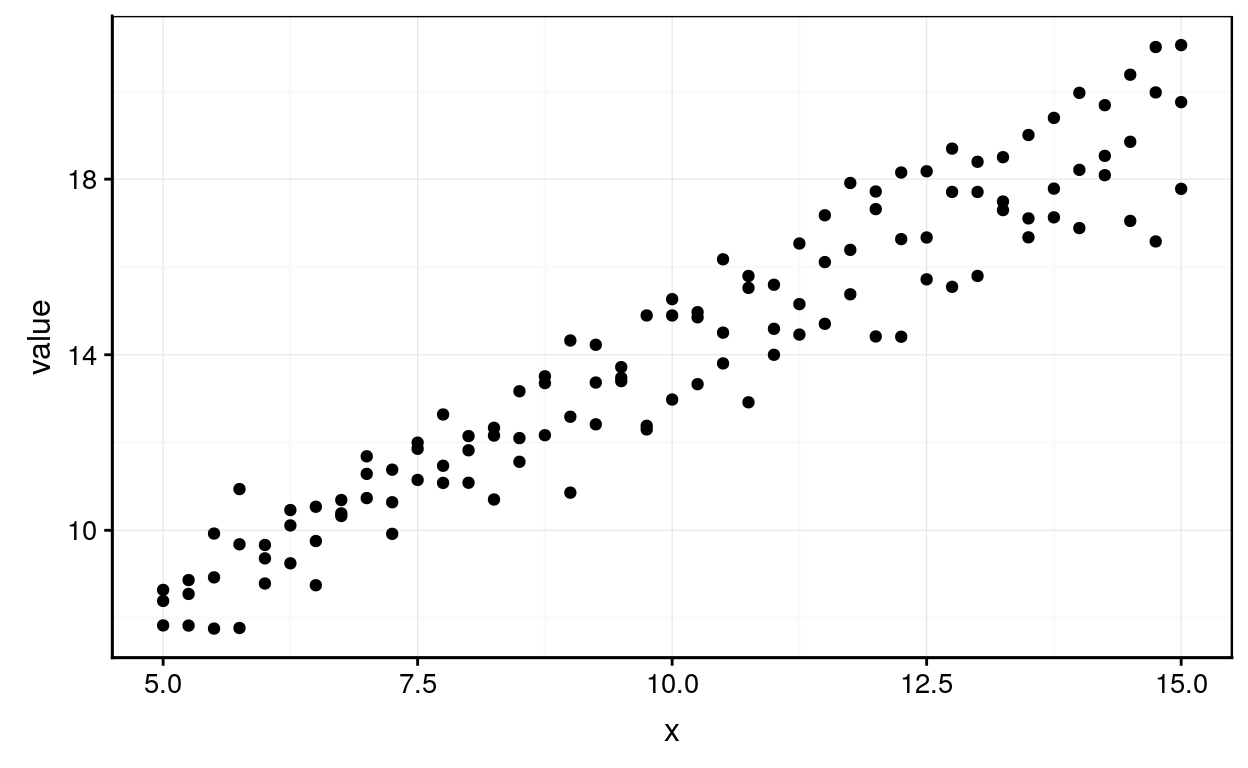
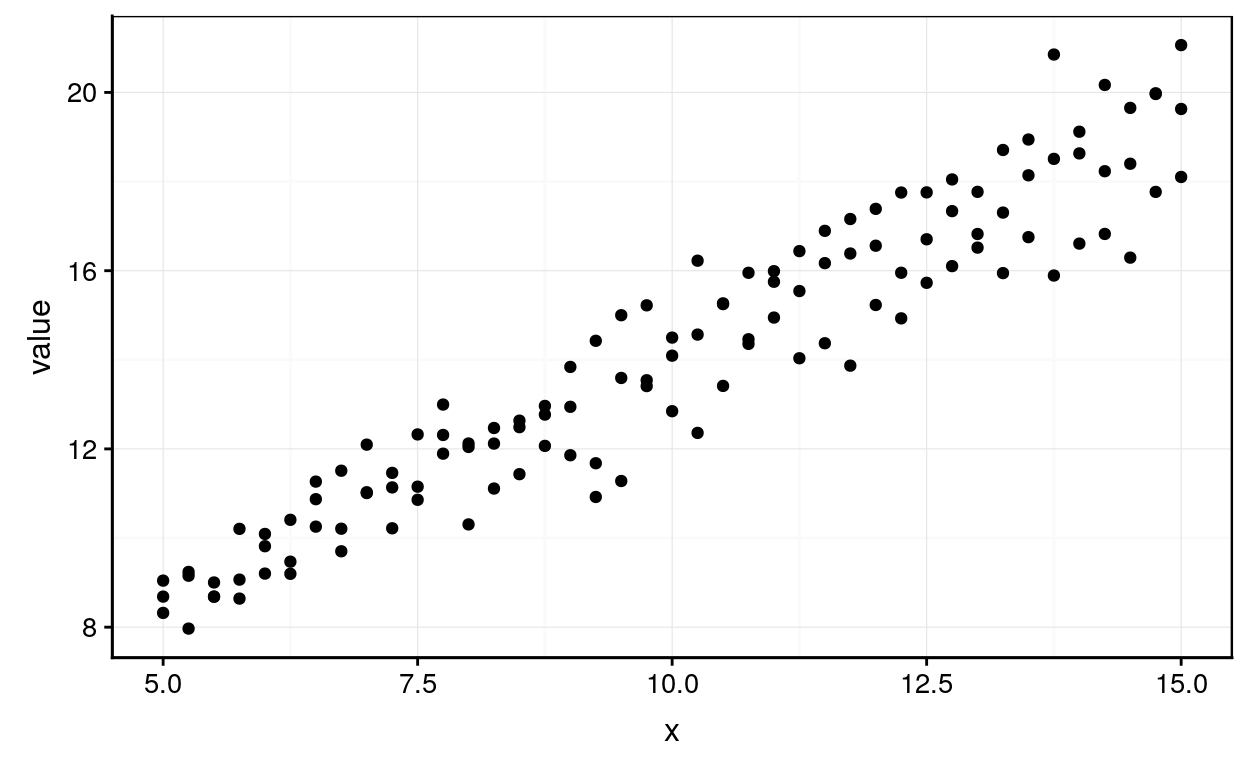
01a_reg_lin correction mineure

diff --git a/inst/tutorials/01a_reg_lin/reg_lin_simp.html b/inst/tutorials/01a_reg_lin/reg_lin_simp.html
@@ -100,14 +100,14 @@ correlation(DF[, INDEX_EXPRESSION], use = &quot;complete.obs&quot;, method = &qu
 </div>
 <p>Répondez à la question ci-dessous</p>
 
-<div id="htmlwidget-6aa6fc76439b429914f3" style="width:100%;height:auto;", class = "quiz html-widget">
+<div id="htmlwidget-3df863f24ac0b9c240ae" style="width:100%;height:auto;", class = "quiz html-widget">
 <div class="panel panel-default">
 <div class="panel-body quizArea">
 </div>
 </div>
 </div>
 
-<script type="application/json" data-for="htmlwidget-6aa6fc76439b429914f3">{"x":{"question":"Quelles sont les combinaisons de variables les plus corrélées ?","answers":[{"option":"x-y","correct":true,"message":null},{"option":"x-z","correct":false,"message":null},{"option":"x-a","correct":false,"message":null},{"option":"y-z","correct":false,"message":null},{"option":"y-a","correct":false,"message":null},{"option":"z-a","correct":false,"message":null}],"label":"qu_corr1","skipStartButton":true,"perQuestionResponseAnswers":true,"perQuestionResponseMessaging":true,"preventUnanswered":true,"displayQuestionCount":false,"displayQuestionNumber":false,"disableRanking":true,"nextQuestionText":"","checkAnswerText":"Submit Answer","allowRetry":true,"randomSortAnswers":true,"json":{"info":{"name":"","main":""},"questions":[{"q":"Quelles sont les combinaisons de variables les plus corrélées ?","a":[{"option":"x-y","correct":true,"message":null},{"option":"x-z","correct":false,"message":null},{"option":"x-a","correct":false,"message":null},{"option":"y-z","correct":false,"message":null},{"option":"y-a","correct":false,"message":null},{"option":"z-a","correct":false,"message":null}],"correct":"Correct!","incorrect":"Incorrect."}]}},"evals":[],"jsHooks":[]}</script>
+<script type="application/json" data-for="htmlwidget-3df863f24ac0b9c240ae">{"x":{"question":"Quelles sont les combinaisons de variables les plus corrélées ?","answers":[{"option":"x-y","correct":true,"message":null},{"option":"x-z","correct":false,"message":null},{"option":"x-a","correct":false,"message":null},{"option":"y-z","correct":false,"message":null},{"option":"y-a","correct":false,"message":null},{"option":"z-a","correct":false,"message":null}],"label":"qu_corr1","skipStartButton":true,"perQuestionResponseAnswers":true,"perQuestionResponseMessaging":true,"preventUnanswered":true,"displayQuestionCount":false,"displayQuestionNumber":false,"disableRanking":true,"nextQuestionText":"","checkAnswerText":"Submit Answer","allowRetry":true,"randomSortAnswers":true,"json":{"info":{"name":"","main":""},"questions":[{"q":"Quelles sont les combinaisons de variables les plus corrélées ?","a":[{"option":"x-y","correct":true,"message":null},{"option":"x-z","correct":false,"message":null},{"option":"x-a","correct":false,"message":null},{"option":"y-z","correct":false,"message":null},{"option":"y-a","correct":false,"message":null},{"option":"z-a","correct":false,"message":null}],"correct":"Correct!","incorrect":"Incorrect."}]}},"evals":[],"jsHooks":[]}</script>
 <ul>
 <li>Réalisez une matrice de correlation avec la méthode de Spearman</li>
 </ul>
@@ -129,14 +129,14 @@ correlation(DF[, INDEX_EXPRESSION], use = &quot;complete.obs&quot;, method = &qu
 </div>
 <p>Répondez à la question ci-dessous</p>
 
-<div id="htmlwidget-7bbd18e1158c9117cc46" style="width:100%;height:auto;", class = "quiz html-widget">
+<div id="htmlwidget-6d1817a09071ea6916d6" style="width:100%;height:auto;", class = "quiz html-widget">
 <div class="panel panel-default">
 <div class="panel-body quizArea">
 </div>
 </div>
 </div>
 
-<script type="application/json" data-for="htmlwidget-7bbd18e1158c9117cc46">{"x":{"question":"Quelles sont les combinaisons de variables les moins corrélées ?","answers":[{"option":"x-y","correct":false,"message":null},{"option":"x-z","correct":false,"message":null},{"option":"x-a","correct":false,"message":null},{"option":"y-z","correct":false,"message":null},{"option":"y-a","correct":false,"message":null},{"option":"z-a","correct":true,"message":null}],"label":"qu_corr2","skipStartButton":true,"perQuestionResponseAnswers":true,"perQuestionResponseMessaging":true,"preventUnanswered":true,"displayQuestionCount":false,"displayQuestionNumber":false,"disableRanking":true,"nextQuestionText":"","checkAnswerText":"Submit Answer","allowRetry":true,"randomSortAnswers":true,"json":{"info":{"name":"","main":""},"questions":[{"q":"Quelles sont les combinaisons de variables les moins corrélées ?","a":[{"option":"x-y","correct":false,"message":null},{"option":"x-z","correct":false,"message":null},{"option":"x-a","correct":false,"message":null},{"option":"y-z","correct":false,"message":null},{"option":"y-a","correct":false,"message":null},{"option":"z-a","correct":true,"message":null}],"correct":"Correct!","incorrect":"Incorrect."}]}},"evals":[],"jsHooks":[]}</script>
+<script type="application/json" data-for="htmlwidget-6d1817a09071ea6916d6">{"x":{"question":"Quelles sont les combinaisons de variables les moins corrélées ?","answers":[{"option":"x-y","correct":false,"message":null},{"option":"x-z","correct":false,"message":null},{"option":"x-a","correct":false,"message":null},{"option":"y-z","correct":false,"message":null},{"option":"y-a","correct":false,"message":null},{"option":"z-a","correct":true,"message":null}],"label":"qu_corr2","skipStartButton":true,"perQuestionResponseAnswers":true,"perQuestionResponseMessaging":true,"preventUnanswered":true,"displayQuestionCount":false,"displayQuestionNumber":false,"disableRanking":true,"nextQuestionText":"","checkAnswerText":"Submit Answer","allowRetry":true,"randomSortAnswers":true,"json":{"info":{"name":"","main":""},"questions":[{"q":"Quelles sont les combinaisons de variables les moins corrélées ?","a":[{"option":"x-y","correct":false,"message":null},{"option":"x-z","correct":false,"message":null},{"option":"x-a","correct":false,"message":null},{"option":"y-z","correct":false,"message":null},{"option":"y-a","correct":false,"message":null},{"option":"z-a","correct":true,"message":null}],"correct":"Correct!","incorrect":"Incorrect."}]}},"evals":[],"jsHooks":[]}</script>
 <ul>
 <li>Reproduisez le graphique ci-dessous en vous basant sur vos matrices réalisées précédements</li>
 </ul>
@@ -186,28 +186,29 @@ bartlett.test(data = df, value ~ x)</code></pre>
 <pre class="text"><code># TODO</code></pre>
 </div>
 
-<div id="htmlwidget-ac4619e1a21646ad7c98" style="width:100%;height:auto;", class = "quiz html-widget">
+<div id="htmlwidget-2be8afc5e70c9632d8cf" style="width:100%;height:auto;", class = "quiz html-widget">
 <div class="panel panel-default">
 <div class="panel-body quizArea">
 </div>
 </div>
 </div>
 
-<script type="application/json" data-for="htmlwidget-ac4619e1a21646ad7c98">{"x":{"question":"D&#39;après votre analyse, pouvons nous considérer qu&#39;il y a ...","answers":[{"option":"homoscédasticité","correct":false,"message":null},{"option":"hétéroscédasticité","correct":false,"message":null}],"label":"qu_homo","skipStartButton":true,"perQuestionResponseAnswers":true,"perQuestionResponseMessaging":true,"preventUnanswered":true,"displayQuestionCount":false,"displayQuestionNumber":false,"disableRanking":true,"nextQuestionText":"","checkAnswerText":"Submit Answer","allowRetry":false,"randomSortAnswers":false,"json":{"info":{"name":"","main":""},"questions":[{"q":"D&#39;après votre analyse, pouvons nous considérer qu&#39;il y a ...","a":[{"option":"homoscédasticité","correct":false,"message":null},{"option":"hétéroscédasticité","correct":false,"message":null}],"correct":"Correct!","incorrect":"Incorrect."}]}},"evals":[],"jsHooks":[]}</script>
+<script type="application/json" data-for="htmlwidget-2be8afc5e70c9632d8cf">{"x":{"question":"D&#39;après votre analyse, pouvons nous considérer qu&#39;il y a ...","answers":[{"option":"homoscédasticité","correct":false,"message":null},{"option":"hétéroscédasticité","correct":false,"message":null}],"label":"qu_homo","skipStartButton":true,"perQuestionResponseAnswers":true,"perQuestionResponseMessaging":true,"preventUnanswered":true,"displayQuestionCount":false,"displayQuestionNumber":false,"disableRanking":true,"nextQuestionText":"","checkAnswerText":"Submit Answer","allowRetry":false,"randomSortAnswers":false,"json":{"info":{"name":"","main":""},"questions":[{"q":"D&#39;après votre analyse, pouvons nous considérer qu&#39;il y a ...","a":[{"option":"homoscédasticité","correct":false,"message":null},{"option":"hétéroscédasticité","correct":false,"message":null}],"correct":"Correct!","incorrect":"Incorrect."}]}},"evals":[],"jsHooks":[]}</script>
 </div>
 <div id="section-regression-lineaire" class="section level2">
 <h2>Régression linéaire</h2>
 <p>Réalisez la régression linéaire de <code>value</code> en fonction de <code>x</code> sur le jeu de données <code>mais</code>. Vous avez à votre dispositon un nuage de points et un résumé des données pour avoir une première connaissance de données.</p>
 <p><img src="reg_lin_simp_files/figure-html/unnamed-chunk-6-1.png" width="624" /></p>
 <pre><code>       x            value        area  
- Min.   : 5.0   Min.   : 7.894   a:41  
- 1st Qu.: 7.5   1st Qu.:10.980   b:41  
- Median :10.0   Median :13.911   c:41  
- Mean   :10.0   Mean   :13.980         
- 3rd Qu.:12.5   3rd Qu.:16.804         
- Max.   :15.0   Max.   :21.165         </code></pre>
+ Min.   : 5.0   Min.   : 7.647   a:41  
+ 1st Qu.: 7.5   1st Qu.:11.036   b:41  
+ Median :10.0   Median :13.818   c:41  
+ Mean   :10.0   Mean   :13.956         
+ 3rd Qu.:12.5   3rd Qu.:16.726         
+ Max.   :15.0   Max.   :21.259         </code></pre>
 <div class="tutorial-exercise-support" data-label="reg1-prep" data-caption="Code R" data-completion="1" data-diagnostics="1" data-startover="1" data-lines="0">
-<pre class="text"><code>x &lt;- seq(from = 5, to = 15, by = 0.25)
+<pre class="text"><code>set.seed(42)
+x &lt;- seq(from = 5, to = 15, by = 0.25)
   
 a &lt;- x*1 + 3 + rnorm(sd = 0.5, n = length(x))
 b &lt;- x*1.1 + 3 + rnorm(sd = 0.5, n = length(x))
@@ -241,27 +242,27 @@ summary(lm. &lt;- lm(data = DF, FORMULA))</code></pre>
 <tr>
 <td>
 
-<div id="htmlwidget-0c612aee7c00a81933a3" style="width:100%;height:auto;", class = "quiz html-widget">
+<div id="htmlwidget-36bc903447cf0551bcce" style="width:100%;height:auto;", class = "quiz html-widget">
 <div class="panel panel-default">
 <div class="panel-body quizArea">
 </div>
 </div>
 </div>
 
-<script type="application/json" data-for="htmlwidget-0c612aee7c00a81933a3">{"x":{"question":"Quelle est la valeur de l&#39;ordonnée à l&#39;origine ?","answers":[{"option":"2.85","correct":true,"message":null},{"option":"1.12","correct":false,"message":null},{"option":"0.32","correct":false,"message":null},{"option":"0.03","correct":false,"message":null},{"option":"8.89","correct":false,"message":null},{"option":"36.37","correct":false,"message":null},{"option":"0.92","correct":false,"message":null}],"label":"qu_reglin1-1","skipStartButton":true,"perQuestionResponseAnswers":true,"perQuestionResponseMessaging":true,"preventUnanswered":true,"displayQuestionCount":false,"displayQuestionNumber":false,"disableRanking":true,"nextQuestionText":"","checkAnswerText":"Submit Answer","allowRetry":true,"randomSortAnswers":true,"json":{"info":{"name":"","main":""},"questions":[{"q":"Quelle est la valeur de l&#39;ordonnée à l&#39;origine ?","a":[{"option":"2.85","correct":true,"message":null},{"option":"1.12","correct":false,"message":null},{"option":"0.32","correct":false,"message":null},{"option":"0.03","correct":false,"message":null},{"option":"8.89","correct":false,"message":null},{"option":"36.37","correct":false,"message":null},{"option":"0.92","correct":false,"message":null}],"correct":"Correct!","incorrect":"Incorrect."}]}},"evals":[],"jsHooks":[]}</script>
+<script type="application/json" data-for="htmlwidget-36bc903447cf0551bcce">{"x":{"question":"Quelle est la valeur de l&#39;ordonnée à l&#39;origine ?","answers":[{"option":"3.26","correct":true,"message":null},{"option":"1.07","correct":false,"message":null},{"option":"0.32","correct":false,"message":null},{"option":"0.03","correct":false,"message":null},{"option":"10.21","correct":false,"message":null},{"option":"35.04","correct":false,"message":null},{"option":"0.91","correct":false,"message":null}],"label":"qu_reglin1-1","skipStartButton":true,"perQuestionResponseAnswers":true,"perQuestionResponseMessaging":true,"preventUnanswered":true,"displayQuestionCount":false,"displayQuestionNumber":false,"disableRanking":true,"nextQuestionText":"","checkAnswerText":"Submit Answer","allowRetry":true,"randomSortAnswers":true,"json":{"info":{"name":"","main":""},"questions":[{"q":"Quelle est la valeur de l&#39;ordonnée à l&#39;origine ?","a":[{"option":"3.26","correct":true,"message":null},{"option":"1.07","correct":false,"message":null},{"option":"0.32","correct":false,"message":null},{"option":"0.03","correct":false,"message":null},{"option":"10.21","correct":false,"message":null},{"option":"35.04","correct":false,"message":null},{"option":"0.91","correct":false,"message":null}],"correct":"Correct!","incorrect":"Incorrect."}]}},"evals":[],"jsHooks":[]}</script>
 </td>
 </tr>
 <tr>
 <td>
 
-<div id="htmlwidget-121722831263f5eb50b0" style="width:100%;height:auto;", class = "quiz html-widget">
+<div id="htmlwidget-3d452b8c100a59685a61" style="width:100%;height:auto;", class = "quiz html-widget">
 <div class="panel panel-default">
 <div class="panel-body quizArea">
 </div>
 </div>
 </div>
 
-<script type="application/json" data-for="htmlwidget-121722831263f5eb50b0">{"x":{"question":"Quelle est la valeur de la pente ?","answers":[{"option":"2.85","correct":false,"message":null},{"option":"1.12","correct":true,"message":null},{"option":"0.32","correct":false,"message":null},{"option":"0.03","correct":false,"message":null},{"option":"8.89","correct":false,"message":null},{"option":"36.37","correct":false,"message":null},{"option":"0.92","correct":false,"message":null}],"label":"qu_reglin1-2","skipStartButton":true,"perQuestionResponseAnswers":true,"perQuestionResponseMessaging":true,"preventUnanswered":true,"displayQuestionCount":false,"displayQuestionNumber":false,"disableRanking":true,"nextQuestionText":"","checkAnswerText":"Submit Answer","allowRetry":true,"randomSortAnswers":true,"json":{"info":{"name":"","main":""},"questions":[{"q":"Quelle est la valeur de la pente ?","a":[{"option":"2.85","correct":false,"message":null},{"option":"1.12","correct":true,"message":null},{"option":"0.32","correct":false,"message":null},{"option":"0.03","correct":false,"message":null},{"option":"8.89","correct":false,"message":null},{"option":"36.37","correct":false,"message":null},{"option":"0.92","correct":false,"message":null}],"correct":"Correct!","incorrect":"Incorrect."}]}},"evals":[],"jsHooks":[]}</script>
+<script type="application/json" data-for="htmlwidget-3d452b8c100a59685a61">{"x":{"question":"Quelle est la valeur de la pente ?","answers":[{"option":"3.26","correct":false,"message":null},{"option":"1.07","correct":true,"message":null},{"option":"0.32","correct":false,"message":null},{"option":"0.03","correct":false,"message":null},{"option":"10.21","correct":false,"message":null},{"option":"35.04","correct":false,"message":null},{"option":"0.91","correct":false,"message":null}],"label":"qu_reglin1-2","skipStartButton":true,"perQuestionResponseAnswers":true,"perQuestionResponseMessaging":true,"preventUnanswered":true,"displayQuestionCount":false,"displayQuestionNumber":false,"disableRanking":true,"nextQuestionText":"","checkAnswerText":"Submit Answer","allowRetry":true,"randomSortAnswers":true,"json":{"info":{"name":"","main":""},"questions":[{"q":"Quelle est la valeur de la pente ?","a":[{"option":"3.26","correct":false,"message":null},{"option":"1.07","correct":true,"message":null},{"option":"0.32","correct":false,"message":null},{"option":"0.03","correct":false,"message":null},{"option":"10.21","correct":false,"message":null},{"option":"35.04","correct":false,"message":null},{"option":"0.91","correct":false,"message":null}],"correct":"Correct!","incorrect":"Incorrect."}]}},"evals":[],"jsHooks":[]}</script>
 </td>
 </tr>
 </table>
